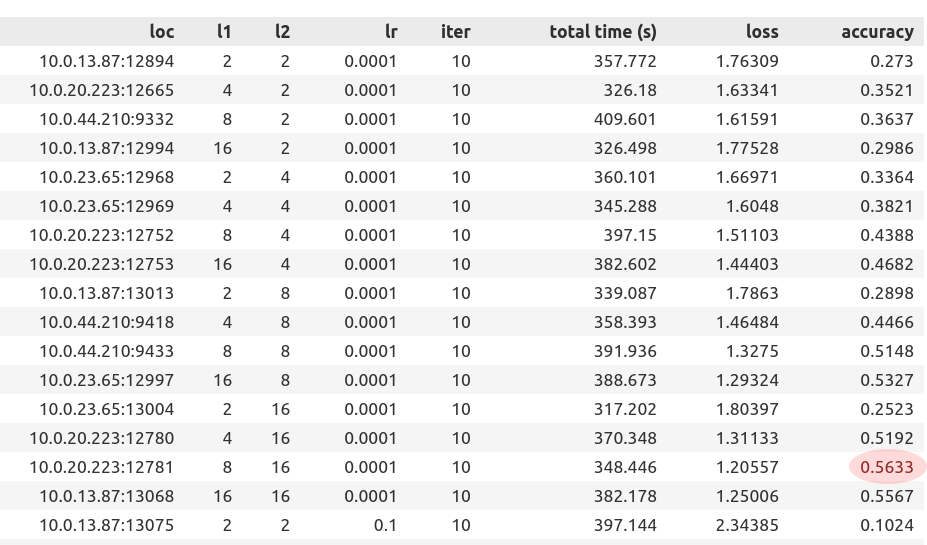
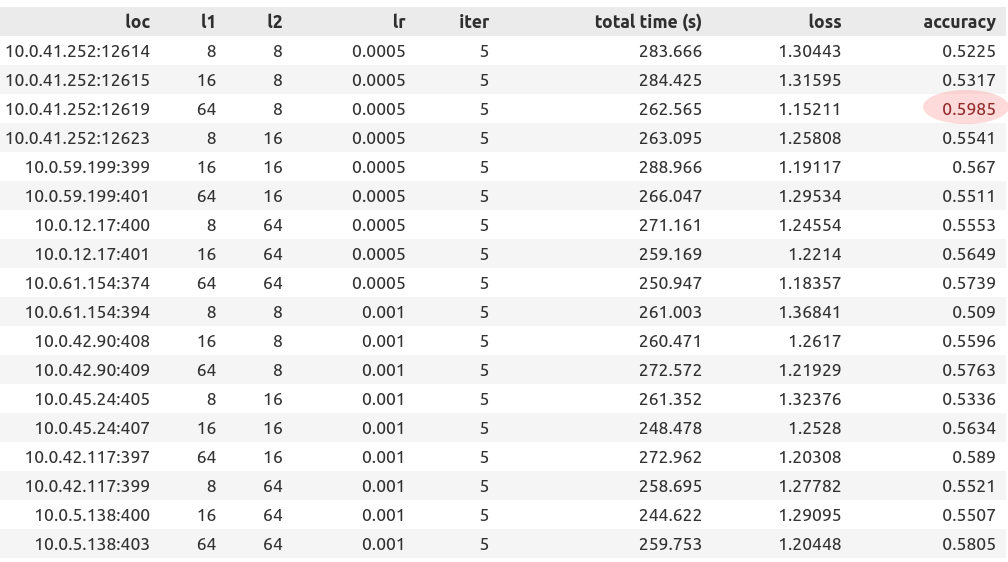
rerun with faster config

diff --git a/templates/intro-tune/README.md b/templates/intro-tune/README.md
@@ -121,7 +121,7 @@ def train_cifar(config):
         num_workers=0,
     )
 
-    for epoch in range(10):  # loop over the dataset multiple times
+    for epoch in range(5):  # loop over the dataset multiple times
         running_loss = 0.0
         epoch_steps = 0
         for i, data in enumerate(trainloader):
@@ -186,9 +186,9 @@ STORAGE_PATH = os.environ["ANYSCALE_ARTIFACT_STORAGE"] + "/tune_results"
 
 # Define trial sweep parameters across l1, l2, and lr.
 trial_space = {
-    "l1": tune.grid_search([2, 4, 8, 16]),
-    "l2": tune.grid_search([2, 4, 8, 16]),
-    "lr": tune.grid_search([1e-4, 1e-1]),
+    "l1": tune.grid_search([8, 16, 64]),
+    "l2": tune.grid_search([8, 16, 64]),
+    "lr": tune.grid_search([5e-4, 1e-3]),
     "batch_size": 4,
 }
 
@@ -206,7 +206,7 @@ results = tuner.fit()
 print(results)
 ```
 
-During and after the execution, Tune reports a table of current trial status and reported accuracy. You can see that the largest net with lowest ``lr`` gets the best accuracy on the validation set:
+During and after the execution, Tune reports a table of current trial status and reported accuracy. You can find the configuration that achieves the highest accuracy on the validation set:
 
 <img src="https://raw.githubusercontent.com/anyscale/templates/main/templates/intro-tune/assets/tune-output.png" width=600px/>
 
